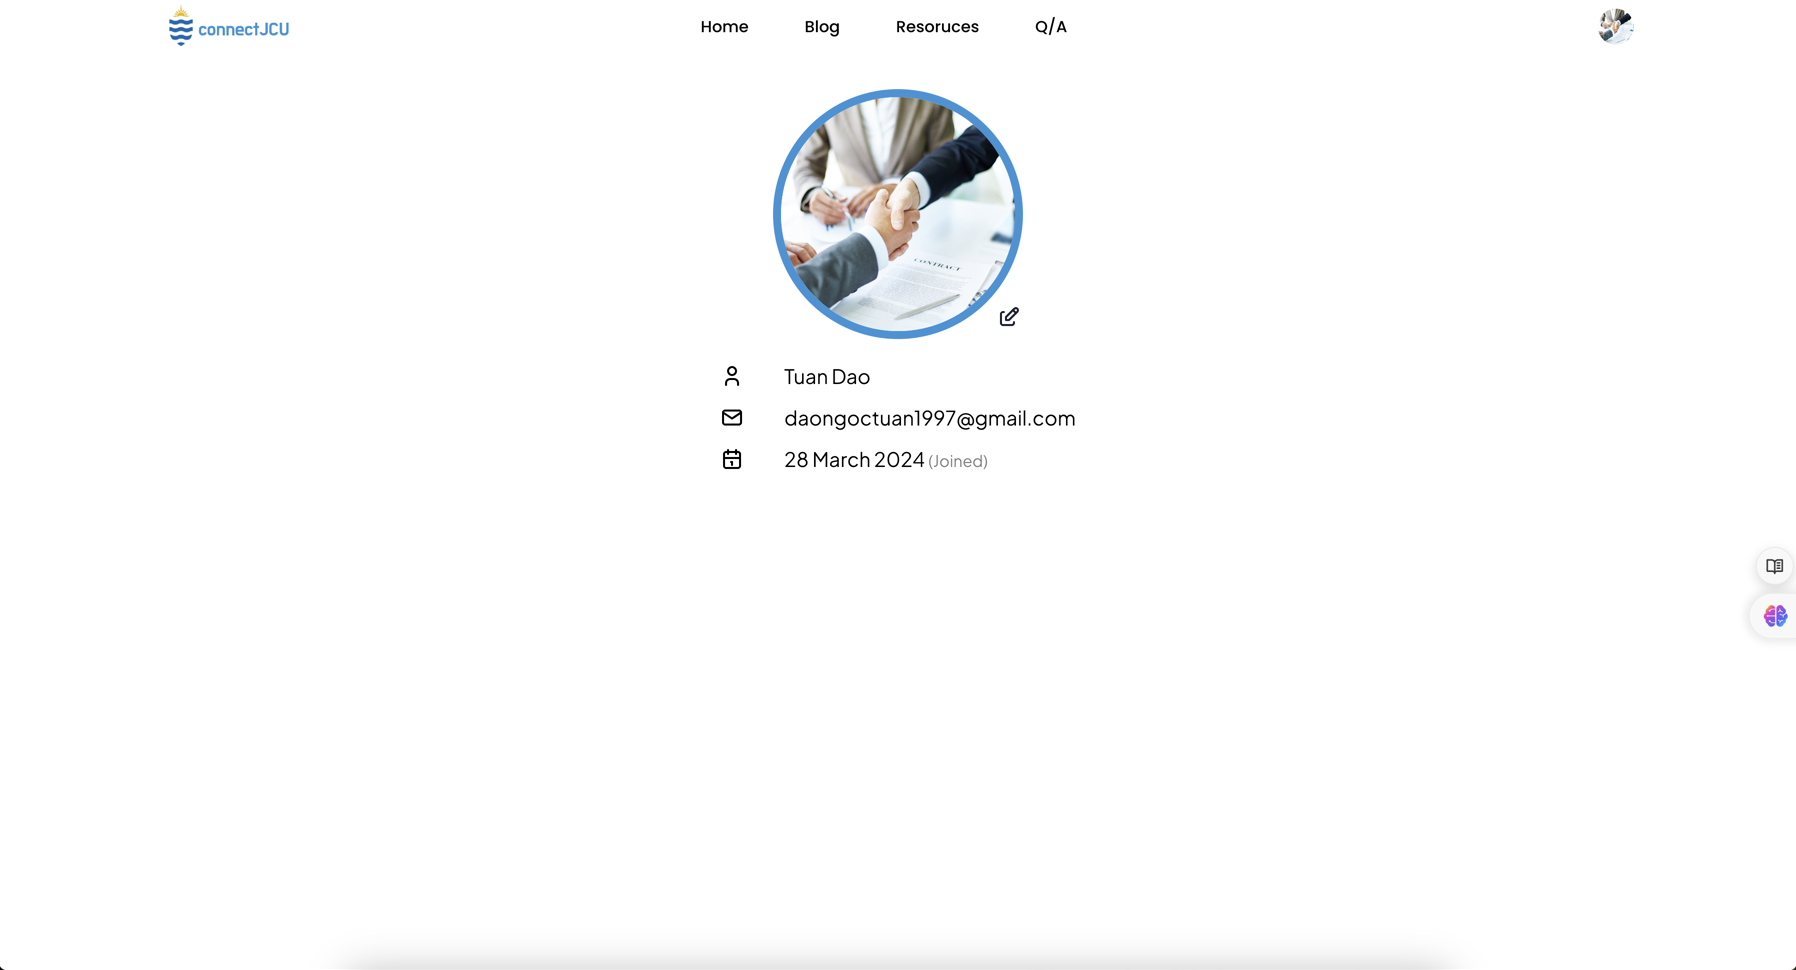
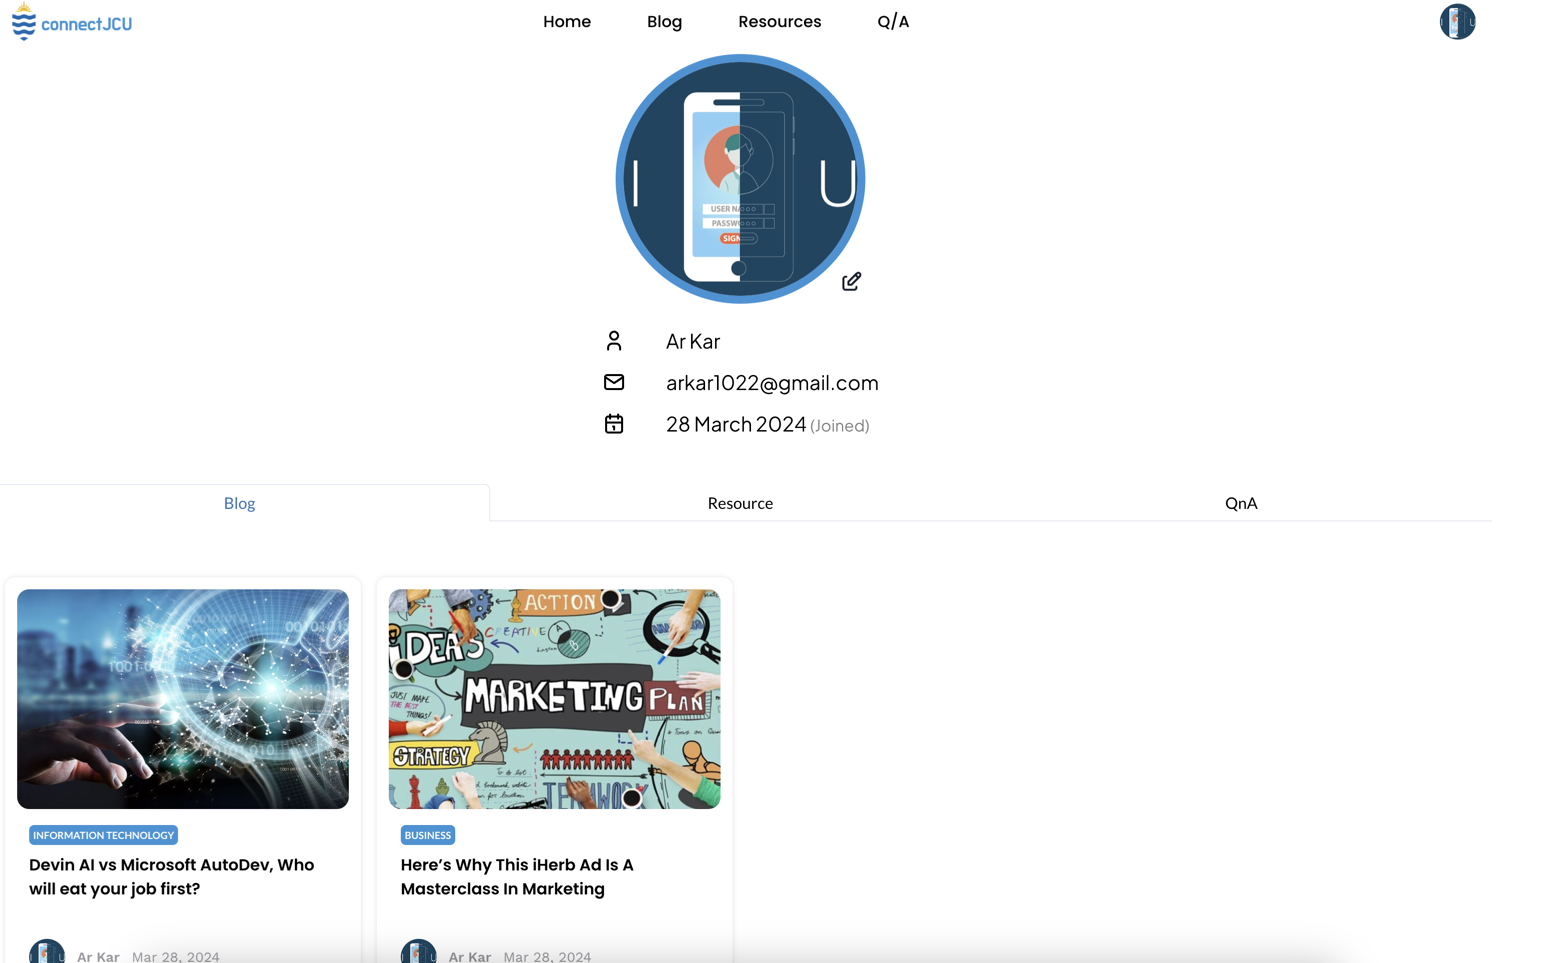
updated README

diff --git a/README.md b/README.md
@@ -1,5 +1,15 @@
 # ConnectJCU Project
 
+This is a community platform designed exclusively for James Cook University students. Here, students can come together to connect, share, and engage in meaningful discussions. Whether you're looking to share your experiences through blogs, discover insightful articles and resources, or seek answers to burning questions, connectJCU has you covered. Our platform offers a diverse range of features, including a blog section where students can showcase their stories and insights, a repository of articles and resources for academic and personal growth, and a dedicated Q&A section where students can seek advice and support from their peers.
+
+- Website: https://www.connectjcu.org/
+- Admin page: https://connectjcu.club/admin
+- Github:
+- Front- end:https://github.com/arkar1022/connectjcu-client/tree/main
+- Back- end: https://github.com/arkar1022/connectjcu-server
+- Database: We used the MySQL DB from : https://aiven.io/
+ ServiceURI: mysql://avnadmin:AVNS_bZZ2XAbxxPyN1wWFr0q@connectjcu-db-arkar1022-d06f.a.aivencloud.com:12662/defaultdb?ssl-mode=REQUIRED
+
 ## Team
 
 1. Dao Ngoc Tuan - 14399066
@@ -26,14 +36,14 @@
 2. [Search/sort/filter resources](./user_stories/search_filter_resources.md), priority 30, 3 days
 3. [Add Q&A section](./user_stories/user_story_01_title.md), priority 30, 5 days
 4. [Blog comment](./user_stories/download_resources.md), priority 30, 3 days
-5. [View other profile](./user_stories/user_story_01_title.md), priority 20, 3 days
-6. [Find related blog](./user_stories/user_story_01_title.md), priority 30, 3 days
+5. [View other profile], priority 20, 3 days
+6. [Find related blog], priority 30, 3 days
 
 Total: 13 days
 
 ### Not enough time/developers:
 
-1. View other profilep, riority 30, 3 days
+1. View other profile, priority 30, 3 days
 2. Find related blog, priority 30, 3 days
 
 Total: 6 days

diff --git a/iteration_1.md b/iteration_1.md
@@ -1,8 +1,8 @@
 # Actual iteration-1 board (started day: 11/3/2024)
 
 - Assumed Velocity: 0.7
-- Number of developers: 1
-- Total estimated amount of work: 60 days
+- Number of developers: 2
+- Total estimated amount of work: 24,5 days
 
 User stories or tasks (see chapter 4):
 
@@ -11,9 +11,9 @@ User stories or tasks (see chapter 4):
 3. [Post a blog](./user_stories/post_a_blog.md), priority 10, 3 days
 4. [Edit a blog](./user_stories/edit_blog.md), priority 10, 3 days
 5. [View user profile](./user_stories/view_user_profile.md), priority 20, 3 days
-6. [Download the material/result](./user_stories/download_resources.md), priority 30, 3 days
-7. [User Upload resources](./user_stories/upload_resources.md), priority 30, 3 days
-8. [Search blog (title)](./user_stories/search_filter_blog.md), priority 30, 4 days
+6. [User Upload resources](./user_stories/upload_resources.md), priority 30, 3 days
+7. [Download the material/result](./user_stories/download_resources.md), priority 30, 3 days
+8. [Search/filter/sort blog ](./user_stories/search_filter_blog.md), priority 30, 4 days
 
 In progress:
 none
@@ -62,7 +62,7 @@ Completed:
 
 Update this at least once per week
 
-- 2 weeks left, xx days of estimated amount of work
-- 1 weeks left, xx days
-- 0 weeks left, xx days
-- Actual Velocity: ??
+- 2 weeks left, 13 days of estimated amount of work
+- 1 weeks left, 4 days
+- 0 weeks left, 0 days
+- Actual Velocity: 1

diff --git a/iteration_2.md b/iteration_2.md
@@ -2,23 +2,23 @@
 
 Checklist:
 
-1. github entry timestamps
-2. User stories are correct: see p39
-
-- Assumed Velocity FROM iteration-1: 0.8
-- Number of developers: 3
-- Total estimated amount of work: 44 days
-
-User stories or tasks (see chapter 4):
+- Assumed Velocity FROM iteration-1: 1
+- Number of developers: 2
+- Total estimated amount of work: 17 days
+  User stories or tasks (see chapter 4):
 
 1. [Modify posted resources](./user_stories/modify_posted_resources.md), priority 30, 2 days
 2. [Search and filter resources](./user_stories/search_filter_resources.md), priority 40, 3 days
 3. [Add Q&A section](./user_stories/Q&A.md), priority 30, 5 days
-4. [Blog comment](./user_stories/download_resources.md), priority 30, 3 days
+4. [Blog comment](./user_stories/download_resources.md), priority 30, 3 day
+5. [View other profile], priority 20, 3 days
+6. [Find related blog], priority 30, 3 days
+
    In progress:
 
-- Task-2 (developer name or initials), date started
-- ...
+- Task 1: Related content
+- Task 2: like count
+- Task 3: View other users profile
 
 Completed:
 
@@ -40,7 +40,7 @@ Completed:
 
 Update this at least once per week
 
-- 2 weeks left, xx days
-- 1 weeks left, xx days
-- 0 weeks left, xx days
-- Actual Velocity: ??
+- 2 weeks left, 12 days
+- 1 weeks left, 8 days
+- 0 weeks left, 6 days
+- Actual Velocity: 0,64

diff --git a/user_stories/view_user_profile.md b/user_stories/view_user_profile.md
@@ -16,7 +16,7 @@ View the blog, resource, and Q&A of the user in the profile page: 1 day
 
 ## Description:
 
-The interface provides the user to view the profile of their own profile. 
+The interface provides the user to view the profile of their own profile.
 
 ## Tasks, see chapter 4.
 
@@ -26,9 +26,7 @@ Front-End:
 2. Task 2: Create a button which leads to the user profile
 3. Task 3: Button for user to add picture as their profile picture
 
-Back-end: 
-4. Task 4: Add API endpoint to get user information stored in database. 
-5. Task 5: Make the endpoint secure so no other user can access any other profile. 6. Task 6: Make an API endpoint to update the user avatar every time the user changes their avatar.
+Back-end: 4. Task 4: Add API endpoint to get user information stored in database. 5. Task 5: Make the endpoint secure so no other user can access any other profile. 6. Task 6: Make an API endpoint to update the user avatar every time the user changes their avatar.
 
 # UI Design:
 
@@ -37,5 +35,5 @@ https://www.figma.com/file/TYFbOhu9clri5TgO0HumTi/Advanced-Software-Engineering?
 # Completed:
 
 - User profile
-  [User profile](../img/users_profile.png)
+  [User profile, view the related post](../img/users_profile.png)
   [Edit Avatar](../img/edit_avatar.png)
